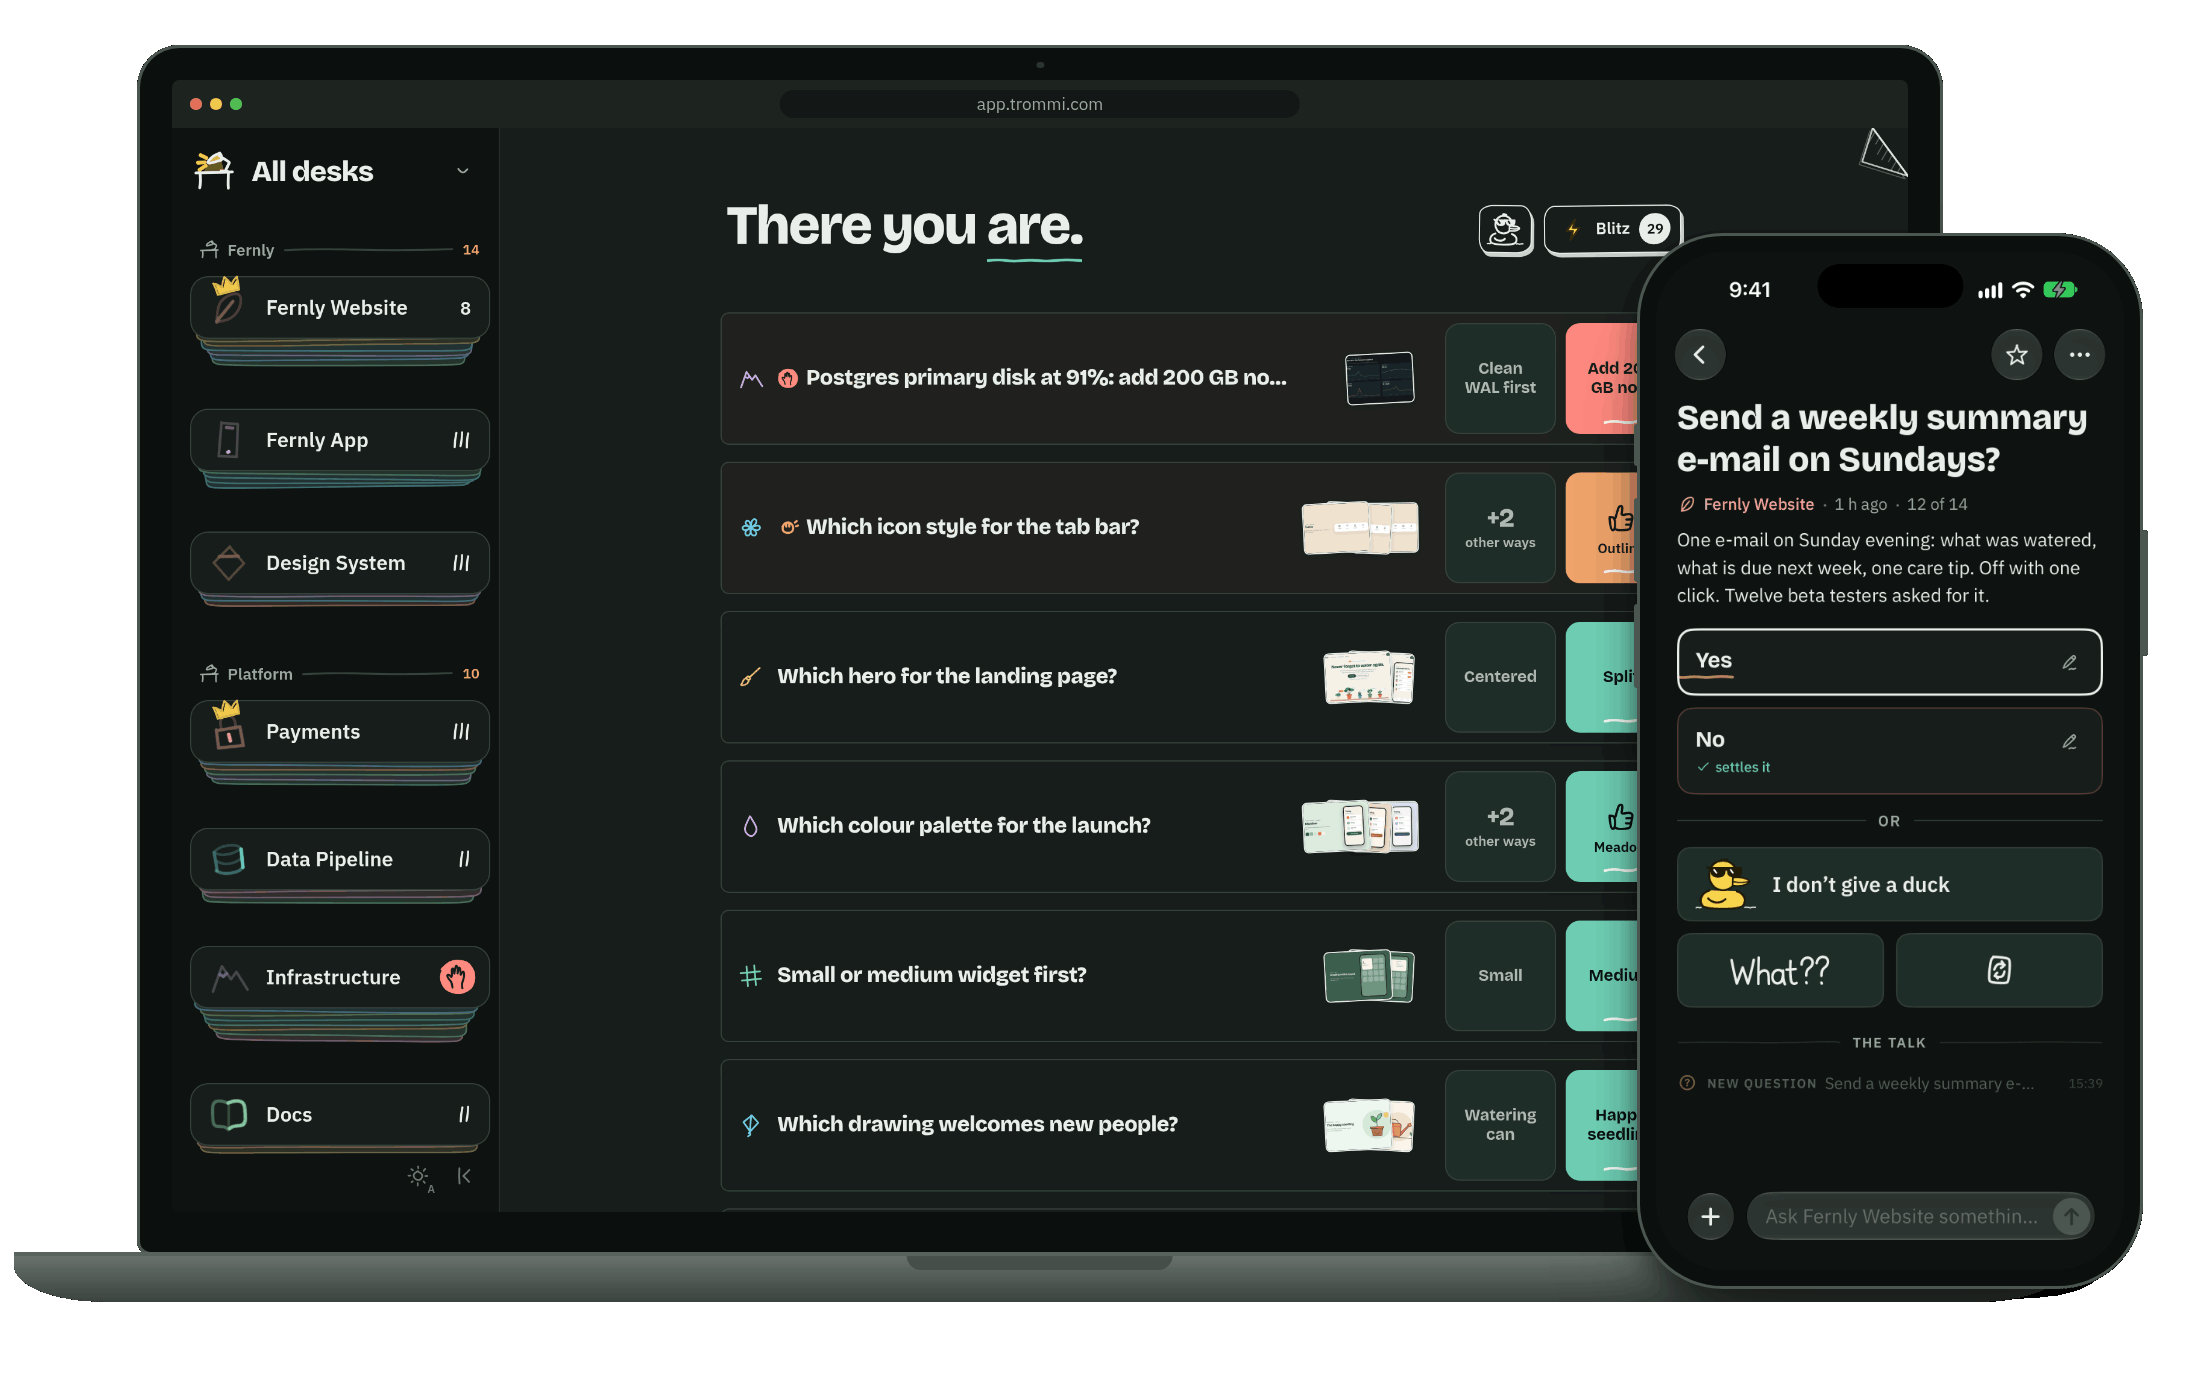
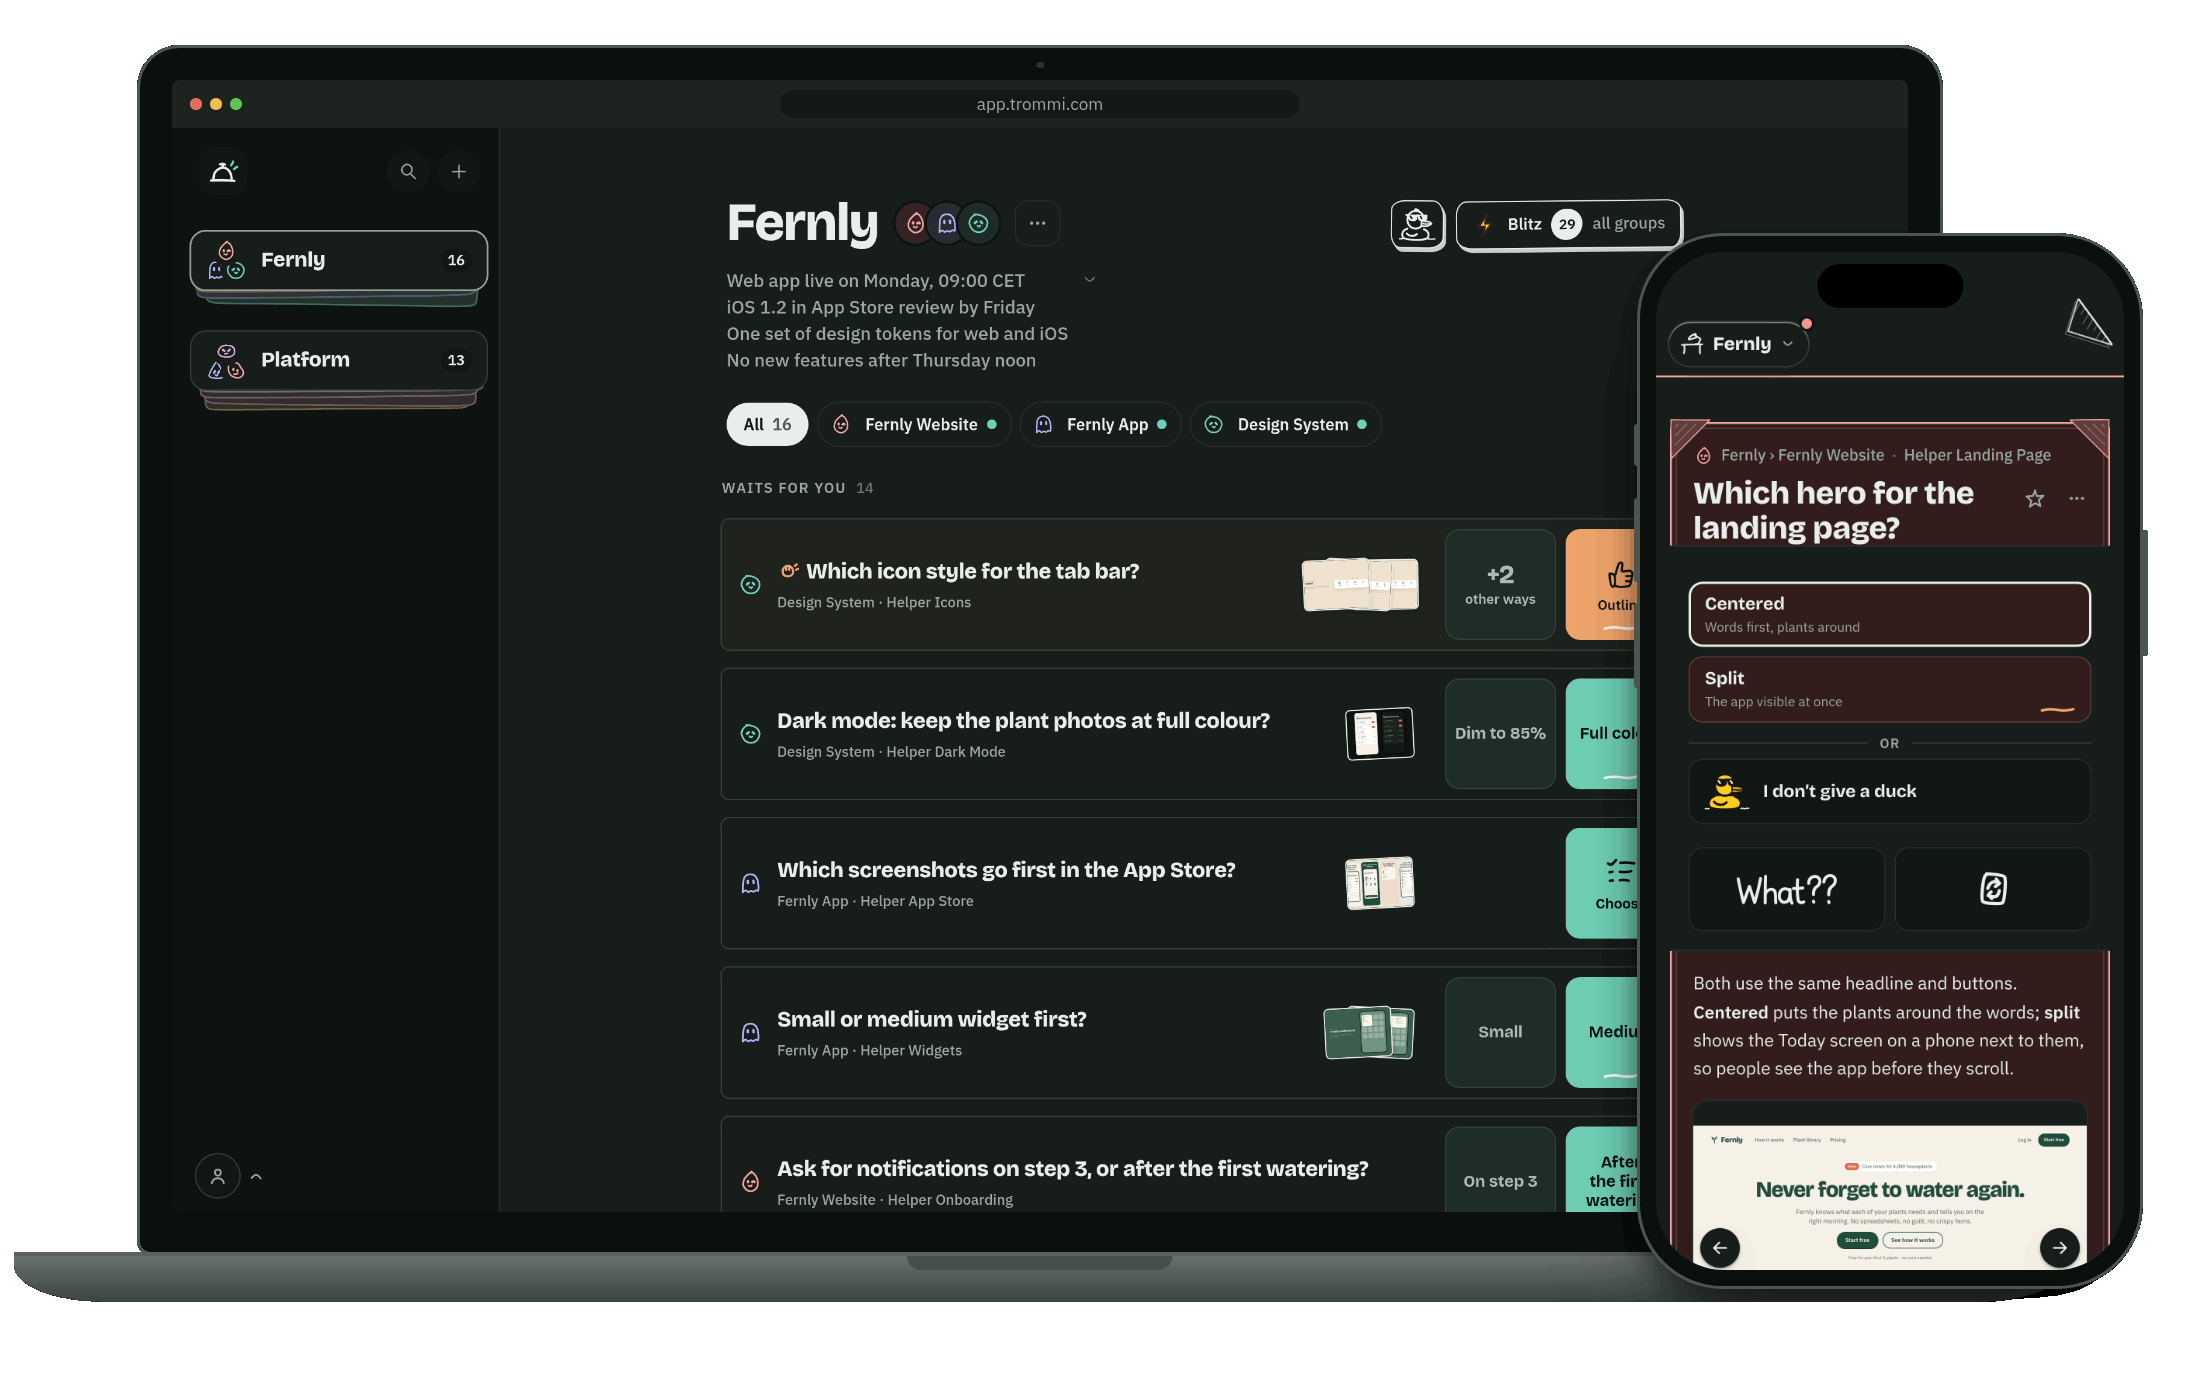
Updated: trommi.com describes the group page instead of the Desk: one list per group (what waits for you first), a chip for each chat, Blitz walks every group's open cards, the next card right after an answer, a chat's helpers at work; "groups" where it said teams (also on the privacy page) Updated:

diff --git a/site/public/index.html b/site/public/index.html
@@ -59,18 +59,17 @@
     <!-- The apps: real screenshots of the demo room (the made-up Fernly) in drawn frames, light and dark.
          theme.js points the dark sources at the picked theme. -->
     <figure class="hero-shot">
-      <picture><source media="(prefers-color-scheme: dark)" type="image/webp" srcset="/images/hero-dark.webp"><source media="(prefers-color-scheme: dark)" srcset="/images/hero-dark.png"><source type="image/webp" srcset="/images/hero-light.webp"><img src="/images/hero-light.png" width="1100" height="700" alt="Trommi on a laptop and an iPhone: the Desk in the web app lists the questions agents are waiting on, each with its answers as buttons; the iPhone shows one short yes/no question with its two answers." decoding="async" fetchpriority="high"></picture>
+      <picture><source media="(prefers-color-scheme: dark)" type="image/webp" srcset="/images/hero-dark.webp"><source media="(prefers-color-scheme: dark)" srcset="/images/hero-dark.png"><source type="image/webp" srcset="/images/hero-light.webp"><img src="/images/hero-light.png" width="1100" height="700" alt="Trommi on a laptop and a phone: the web app shows the group Fernly with its goals, a chip for each chat and the questions waiting for you, each with its answers as buttons; the phone shows one open card with its options." decoding="async" fetchpriority="high"></picture>
     </figure>
   </div>
   <ul class="wrap facts">
-    <li><b>Every agent, one Desk.</b> Claude Code and Codex sessions side by side, from all your machines.</li>
-    <li><b>A push when one needs you.</b> The blocking questions come first; the rest waits until you have a minute.</li>
+    <li><b>One list per group.</b> Tap a group and its open cards are there, what waits for you first. Claude Code and Codex side by side, from all your machines.</li>
+    <li><b>A push when one needs you.</b> The blocking questions come first; Blitz walks every group&rsquo;s open cards when you have a minute.</li>
     <li><b>Sealed end to end.</b> The server delivers envelopes it cannot open, from your agents to your phone and back.</li>
   </ul>
 </section>
 
-<!-- Anywhere: the loop on a phone, in three real screenshots of the iPhone app in the demo room (cut from
-     .github/readme/gallery-light.png). Remote first: what reaches you away from the terminal, and what you do with it. -->
+<!-- Anywhere: the loop on a phone, in three real screenshots of the demo room (dev/showcase.mjs). Remote first: what reaches you away from the terminal, and what you do with it. -->
 <section id="anywhere" class="wrap" aria-labelledby="anywhere-h">
   <div class="sec-head">
     <h2 id="anywhere-h">Away from the terminal</h2>
@@ -78,19 +77,19 @@
   </div>
   <ol class="loop">
     <li>
-      <div class="stage"><div class="shot"><img src="/images/go-desk.webp" width="480" height="989" alt="Trommi on an iPhone: the Desk with the questions waiting, each with its answers as buttons." loading="lazy" decoding="async"></div></div>
+      <div class="stage"><div class="shot"><img src="/images/go-group.webp" width="480" height="1008" alt="Trommi on a phone: the group Fernly with its goals, a chip for each chat and the questions waiting for you, each with its answers as buttons." loading="lazy" decoding="async"></div></div>
       <h3><span class="n">1</span>It rings</h3>
       <p>A session that needs a decision files a card. Your phone gets a push; on an iPhone a Live Activity counts along.</p>
     </li>
     <li>
-      <div class="stage"><div class="shot"><img src="/images/go-card.webp" width="480" height="989" alt="An open card on an iPhone: the question, why it matters, and options with pictures." loading="lazy" decoding="async"></div></div>
+      <div class="stage"><div class="shot"><img src="/images/go-card.webp" width="480" height="1008" alt="An open card on a phone: the question, its options, and why it matters with pictures." loading="lazy" decoding="async"></div></div>
       <h3><span class="n">2</span>You answer</h3>
-      <p>The question, why it matters now, a few options with pictures. One tap decides, or ask back first.</p>
+      <p>The question, why it matters now, a few options with pictures. One tap decides and the next card is there, or ask back first.</p>
     </li>
     <li>
-      <div class="stage"><div class="shot"><img src="/images/go-chat.webp" width="480" height="989" alt="A session's chat on an iPhone: the decision, the agent's reply and what it is working on." loading="lazy" decoding="async"></div></div>
+      <div class="stage"><div class="shot"><img src="/images/go-chat.webp" width="480" height="1008" alt="A session's chat on a phone: its helpers at work, each with what it does and for how long, and the question it waits on." loading="lazy" decoding="async"></div></div>
       <h3><span class="n">3</span>It works on</h3>
-      <p>The answer reaches the session that asked. Follow the work, chat with it, send it notes and pictures.</p>
+      <p>The answer reaches the session that asked. Watch its helpers at work, chat with it, send it notes and pictures.</p>
     </li>
   </ol>
 </section>
@@ -107,7 +106,7 @@
       <ul class="plain">
         <li>Cards, options and your answers</li>
         <li>Chats, notes, drawings and files</li>
-        <li>The names of sessions, teams and devices</li>
+        <li>The names of sessions, groups and devices</li>
         <li>The keys: the server holds none that opens anything</li>
       </ul>
     </div>
@@ -144,25 +143,25 @@
 <section id="apps" class="wrap" aria-labelledby="apps-h">
   <div class="sec-head">
     <h2 id="apps-h">Apps</h2>
-    <p class="intro">One board, wherever you are. Teams, cards and chats stay in step on the web, the iPhone and the Mac.</p>
+    <p class="intro">One board, wherever you are. Groups, cards and chats stay in step on the web, the iPhone and the Mac.</p>
   </div>
   <ul class="apps">
     <li>
-      <div class="stage"><div class="win web"><span class="bar" aria-hidden="true"><i></i><i></i><i></i><span>app.trommi.com</span></span><img src="/images/app-web.webp" width="1440" height="900" alt="The Trommi web app: a team's agents in the sidebar, the open questions on the right, each with its answers as buttons." loading="lazy" decoding="async"></div></div>
+      <div class="stage"><div class="win web"><span class="bar" aria-hidden="true"><i></i><i></i><i></i><span>app.trommi.com</span></span><img src="/images/app-web.webp" width="1440" height="900" alt="The Trommi web app: the groups in the sidebar; the group Fernly with a chip for each chat and the questions waiting for you, each with its answers as buttons." loading="lazy" decoding="async"></div></div>
       <h3>Web</h3>
       <p>In any browser, on any computer or phone. Nothing to install.</p>
       <a class="go" href="https://app.trommi.com/">Open app.trommi.com</a>
     </li>
     <li>
-      <div class="stage"><div class="phone"><img src="/images/app-iphone.webp" width="600" height="880" alt="Trommi on an iPhone: the Desk with its goals and the questions waiting, two answer buttons each." loading="lazy" decoding="async"></div></div>
+      <div class="stage"><div class="phone"><img src="/images/app-iphone.webp" width="600" height="880" alt="Trommi on an iPhone: a group with its goals and the questions waiting, two answer buttons each." loading="lazy" decoding="async"></div></div>
       <h3>iPhone</h3>
       <p>Pushes when an agent needs you, answers with one tap. Public beta on TestFlight.</p>
       <a class="go" href="/beta">Join the iPhone beta</a>
     </li>
     <li>
-      <div class="stage"><div class="win mac"><img src="/images/app-mac.webp" width="1440" height="900" alt="Trommi for Mac: the team Fernly with its agents in the sidebar and the questions waiting on the right." loading="lazy" decoding="async"></div></div>
+      <div class="stage"><div class="win mac"><img src="/images/app-mac.webp" width="1440" height="900" alt="Trommi for Mac: the group Fernly with its agents in the sidebar and the questions waiting on the right." loading="lazy" decoding="async"></div></div>
       <h3>Mac <span class="tag">Soon</span></h3>
-      <p>A native app for the desk next to your terminal, on TestFlight soon.</p>
+      <p>A native app right beside your terminal, on TestFlight soon.</p>
     </li>
   </ul>
 </section>
@@ -188,7 +187,7 @@
 <pre tabindex="0" aria-label="The connect prompt"><span class="p">&gt;</span> Connect to Trommi with this invite link: '<i>the invite link</i>'</pre>
 <span class="c"># or in Claude Code, the slash command</span>
 <pre tabindex="0" aria-label="The connect command"><span class="p">&gt;</span> /trommi:connect '<i>the invite link</i>'</pre></li>
-        <li><span class="c"># 3. compare the six emoji here and in the app, confirm: the next question lands on your Desk</span></li>
+        <li><span class="c"># 3. compare the six emoji here and in the app, confirm: the next question lands in its group</span></li>
       </ol>
       <p class="term-note">Claude Code asks once whether to use the trommi MCP server: choose “Use this MCP server”.</p>
     </div>
@@ -203,7 +202,7 @@
   </div>
   <dl class="faq">
     <div><dt>My agent has a remote control built in. Why Trommi?</dt>
-      <dd>A built-in remote control mirrors one maker&rsquo;s sessions. Trommi puts Claude Code and Codex on one Desk, brings you the questions instead of the whole terminal, and seals everything end to end.</dd></div>
+      <dd>A built-in remote control mirrors one maker&rsquo;s sessions. Trommi puts Claude Code and Codex side by side in your groups, brings you the questions instead of the whole terminal, and seals everything end to end.</dd></div>
     <div><dt>Can I start a new session from my phone?</dt>
       <dd>Not yet. A session starts on your machine and is connected once; from then on everything it asks reaches you wherever you are.</dd></div>
     <div><dt>Does my code go through Trommi?</dt>

diff --git a/site/public/privacy.html b/site/public/privacy.html
@@ -59,7 +59,7 @@
   <li>Your push registration, if you turn push on.</li>
   <li>Whether a device is connected, and whether an agent is working.</li>
 </ul>
-<p><b>What it cannot read:</b> everything you and your agents write. Messages, cards and answers, drawings, the names of sessions, teams and devices, and files with their names are encrypted on your device, and the server holds no key that opens them. The operator cannot read them and cannot recover them for you.</p>
+<p><b>What it cannot read:</b> everything you and your agents write. Messages, cards and answers, drawings, the names of sessions, groups and devices, and files with their names are encrypted on your device, and the server holds no key that opens them. The operator cannot read them and cannot recover them for you.</p>
 <p>One limit of this: in a browser, the app's code is delivered by the same operator each time you open it. Whoever serves that code could read what the app reads.</p>
 <p>The hub uses IP addresses in memory only, to limit sign-in attempts and abuse, and stores none. It keeps an operating log of starts, errors and account events.</p>
 

diff --git a/site/dev/showcase.html b/site/dev/showcase.html
@@ -3,6 +3,7 @@
      (no mockup images). dev/showcase.mjs opens it once per picture, on a transparent page:
        showcase.html?layout=hero&laptop=<web png>&phone=<iPhone png>
        showcase.html?layout=phone&phone=<iPhone png>
+       showcase.html?layout=shot&phone=<phone png>       (the phone alone, edge to edge, no shadow)
        showcase.html?layout=gallery&phones=<png>,<png>,...
      and theme=light|dark for the frames' shade. Sizes are CSS pixels; the picture is taken at 2x. -->
 <html><head><meta charset="utf-8"><style>
@@ -62,6 +63,10 @@ if (layout === 'hero') {
 } else if (layout === 'phone') {
   set({ w: 300, h: 640, pw: 270 })
   html = phone(q.get('phone'), 'left:15px;top:14px')
+} else if (layout === 'shot') {
+  // the phone fills the page; its shadow is the site's (a drop-shadow there)
+  set({ w: 240, h: 504, pw: 240 })
+  html = phone(q.get('phone'), 'left:0;top:0;box-shadow:0 0 0 1.4px var(--rim)')
 } else if (layout === 'gallery') {
   const list = q.get('phones').split(',')
   set({ w: 1100, h: 560, pw: 240, gap: 32, pad: 14 })

diff --git a/site/README.md b/site/README.md
@@ -4,13 +4,15 @@ The website [trommi.com](https://trommi.com): one page, the imprint, the privacy
 they are from `public/` with `worker.js` in front (http to https, www.trommi.com to trommi.com; `/beta` to the iPhone
 app's public TestFlight link, the server's setting `TESTFLIGHT_URL`, or to the install steps on GitHub while that is
 empty). Nothing is built (the pictures of the apps in `public/images/` are made once by `dev/showcase.mjs`
-from real screenshots of the demo room, see its head); Node 22 or newer, no packages. Font licences: `THIRD-PARTY.md`.
+from real screenshots of the demo room: the web app's group page on a laptop and on a phone, see its head; the
+iPhone and Mac pictures come from those apps); Node 22 or newer, no packages. Font licences: `THIRD-PARTY.md`.
 
 ```
 node site/dev/serve.mjs              # http://127.0.0.1:8910, with the headers of public/_headers
 node tests/site/check.mjs            # links, files, headers, worker; no browser
 node tests/site/header.mjs           # the head of every page in headless Chromium
 node site/dev/shots.mjs site         # pictures of every page, desktop and phone, light and dark
+node site/dev/showcase.mjs raw RAW   # screenshots of the web app's demo room into RAW (node app/web/dev/serve.mjs 8900)
 node site/dev/showcase.mjs RAW       # the apps' pictures (public/images/, .github/readme/) from screenshots in RAW
 ```
 
